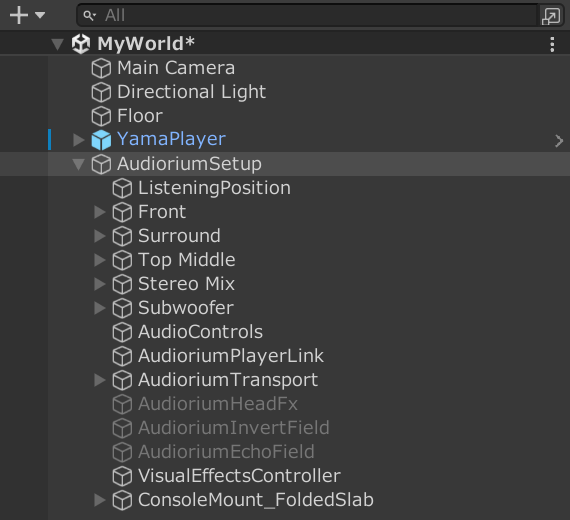
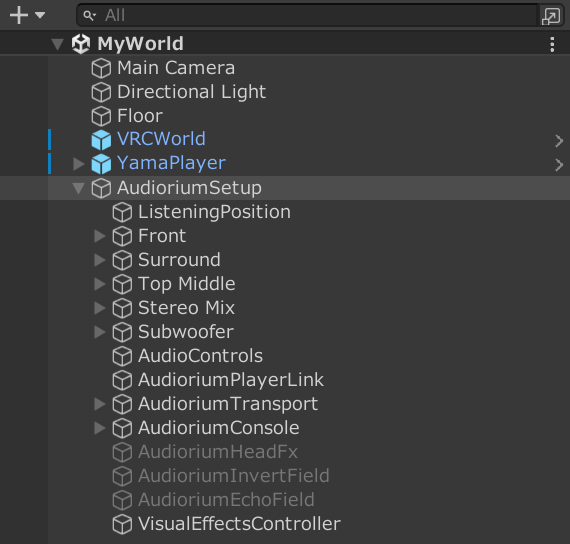
コンソールのモデルのデフォルトが「枠のみ」になり、並びが変わった製品に合わせる（TheaterConsole の main fabb256c）。console.md のデフォルトの文（モデルは枠のみ、マテリアルは台のあるモデルで選べてデフォルトはホワイト）とモデルの表の並び、「コンソールを選択」の文（台のあるモデルでは台ごと）を直す。クイックスタートの置かれる物の表を AudioriumConsole に、位置の調整の文も同じ形に。画像は撮影用の複製を同じ中身に揃えて画面なしの Unity で撮り直した 8 枚：コンソールの節（枠のみ）、置き台のとき、モデルの一覧（7 種とも今の描画、新しい並

diff --git a/docs/getting-started/quick-start.md b/docs/getting-started/quick-start.md
@@ -37,7 +37,7 @@ YamaPlayer か VizVid を Scene に置き、位置と向きを決めます。ス
 | --- | --- |
 | `ListeningPosition` | 視聴位置。スピーカーの音が届く範囲を決める基準の位置です |
 | `Front`・`Surround`・`Top Middle`・`Stereo Mix`・`Subwoofer` | スピーカー。動画プレイヤーのスクリーンを基準に配置されます |
-| `ConsoleMount_`（台の名前） | コンソールと、それを載せる台。名前の後半は、選択したモデルで変わります |
+| `AudioriumConsole` | コンソール。台のあるモデルを選ぶと、台の名前の `ConsoleMount_` の中に入ります |
 | `AudioControls` など、そのほかの物 | Audiorium の動作に使う物。移動・削除しません |
 
 最初は、Front・Surround・Top Middle・Stereo Mix・Subwoofer の 5 種類、8 つの出力が配置されます。使わないスピーカーは [こちらの手順](../setup/speakers.md#追加と削除) で外します。
@@ -66,7 +66,7 @@ YamaPlayer か VizVid を Scene に置き、位置と向きを決めます。ス
 Scene ビューで移動と回転を行います。
 
 - **スピーカー**：Inspector の「スピーカー」の一覧の行をダブルクリックすると選択されます。
-- **コンソール**：Inspector の「コンソールを選択」を押すと、コンソールと台が選択されます。
+- **コンソール**：Inspector の「コンソールを選択」を押すと、コンソールが選択されます。台のあるモデルでは、台ごと選択されます。
 
 ![Scene ビューのスピーカーと視聴位置。音が届く範囲が表示されている](/img/scene/speakers.png)
 
